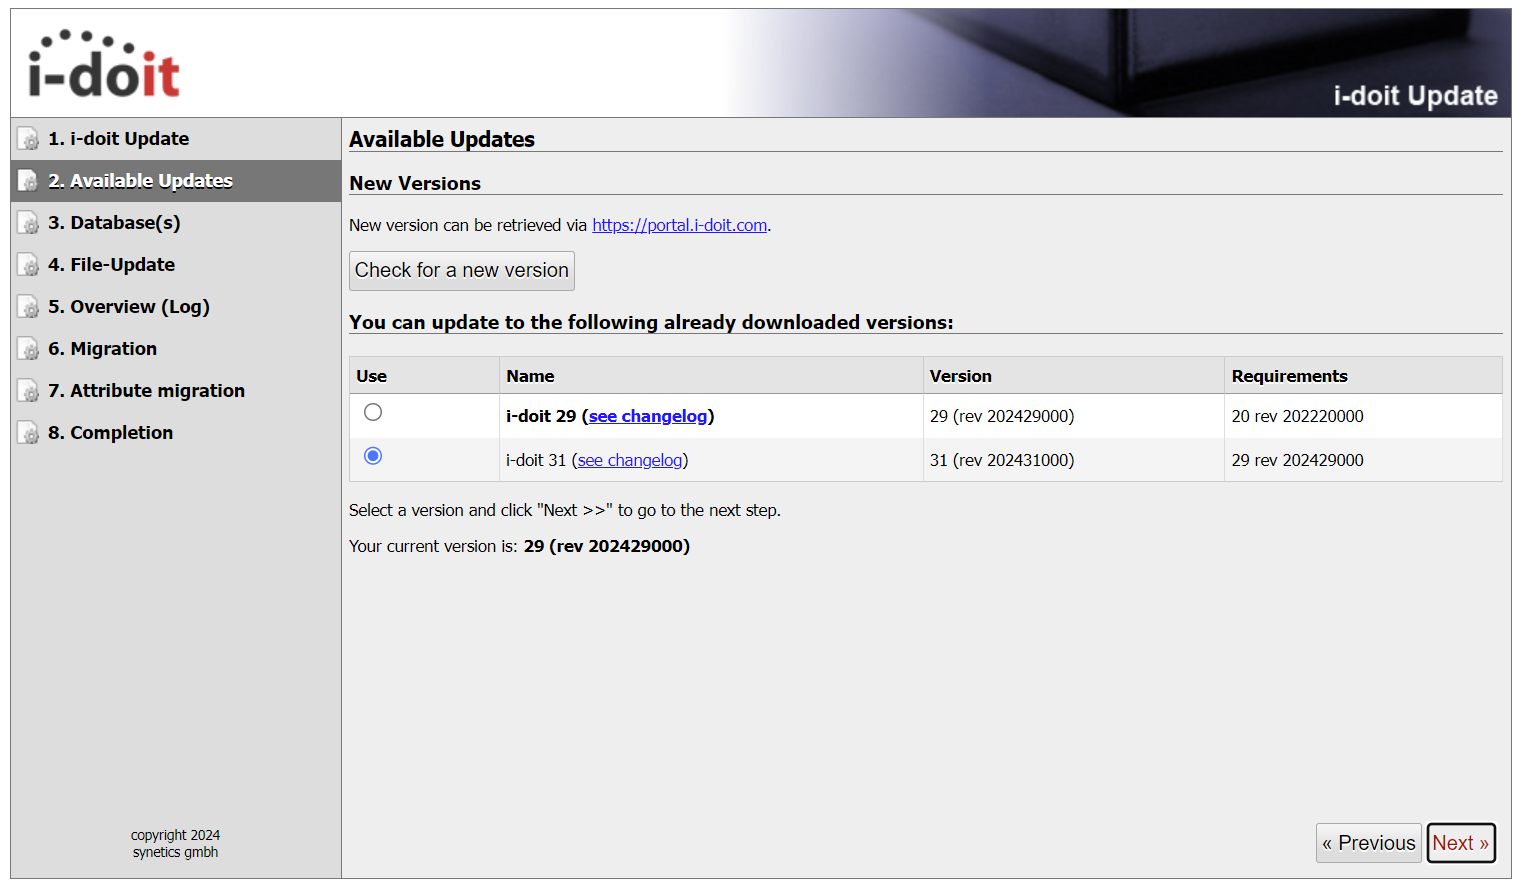
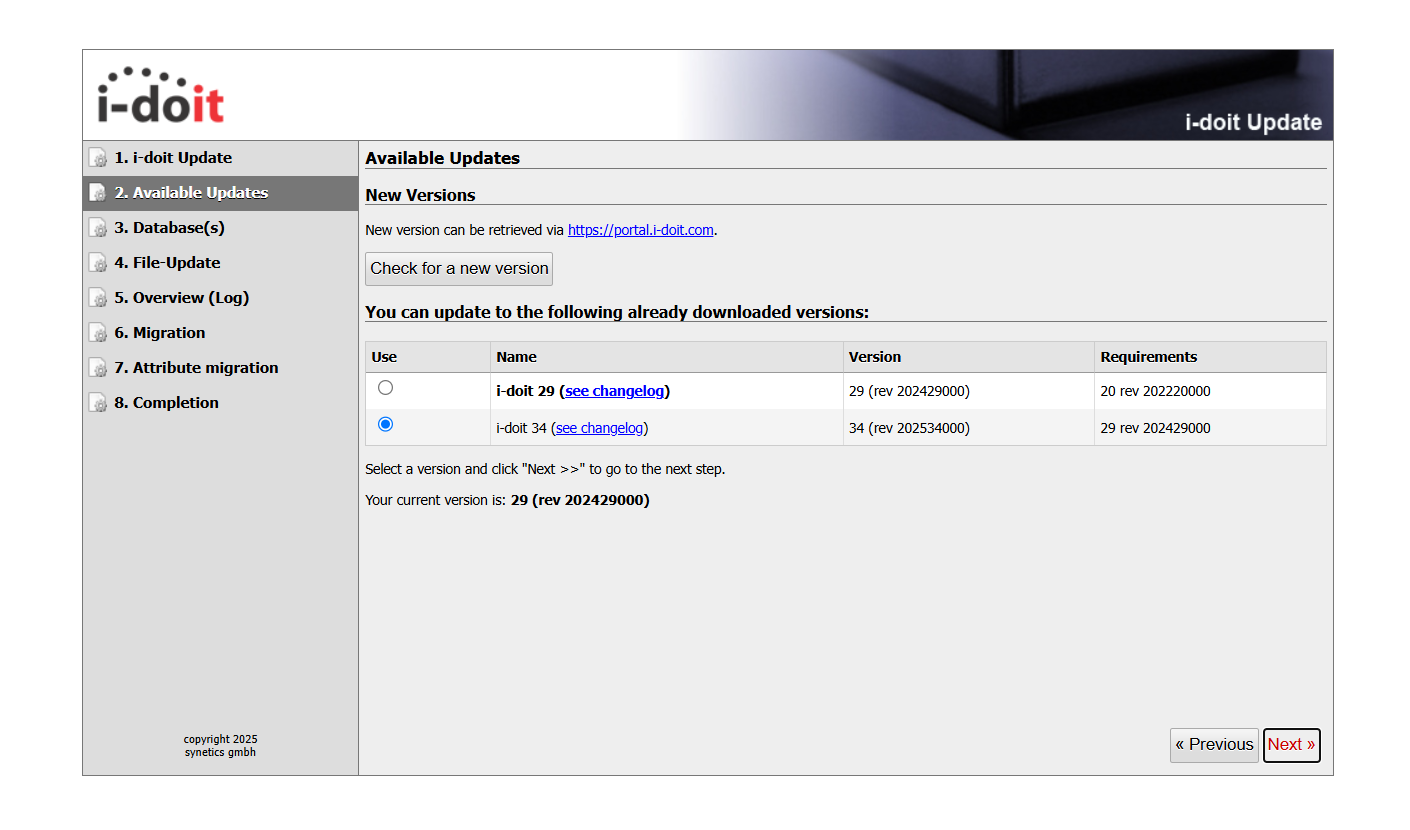
changed text to 34 and updated image

diff --git a/docs/de/upgrades-und-umzuege/update-anleitung-1.7.4-bis-31.md b/docs/de/upgrades-und-umzuege/update-anleitung-1.7.4-bis-31.md
@@ -1,5 +1,5 @@
 ---
-title: Update Anleitung von i-doit 1.7.4 zu 31
+title: Update Anleitung von i-doit 1.7.4 zu 34
 description: i-doit update guide
 icon: fontawesome/brands/linux
 status:
@@ -852,21 +852,21 @@ Starten Sie danach MariaDB neu
 sudo systemctl start mysql.service
 ```
 
-## Aktualisierung von 29 auf 31
+## Aktualisierung von 29 auf 34
 
 Zuerst müssen Sie das Update über die CLI vorbereiten, indem Sie den i-doit-Ordner unter `/var/www/html/` öffnen und das idoit-Update-Paket mit
 
 ```sh
-sudo -u www-data unzip idoit-31-update.zip
+sudo -u www-data unzip idoit-34-update.zip
 ```
 
 entpacken.
 
 Wenn Sie gefragt werden, überschreiben Sie alles, indem Sie **A** eingeben.
 
-Im Web-Interface-Updater überprüfen Sie, ob das Update auf Version 31 angezeigt und ausgewählt ist, und führen Sie dann das Update durch.
+Im Web-Interface-Updater überprüfen Sie, ob das Update auf Version 33 angezeigt und ausgewählt ist, und führen Sie dann das Update durch.
 
-[![Aktualisierung von 29 auf 31](../assets/images/de/upgrades-und-umzuege/update-anleitung-1.7.4-bis-31/14-u18-119.png)](../assets/images/de/upgrades-und-umzuege/update-anleitung-1.7.4-bis-31/14-u18-119.png)
+[![Aktualisierung von 29 auf 34](../assets/images/de/upgrades-und-umzuege/update-anleitung-1.7.4-bis-31/14-u18-119.png)](../assets/images/de/upgrades-und-umzuege/update-anleitung-1.7.4-bis-31/14-u18-119.png)
 
 !!! success "**Überprüfen Sie die Update-Logs**"
     Bitte nehmen Sie sich die Zeit, um die Logs durchzusehen und zu überprüfen, ob ein Fehler aufgetreten ist.

diff --git a/docs/en/upgrades-and-migrations/update-guide-from-1.7.4-to-31.md b/docs/en/upgrades-and-migrations/update-guide-from-1.7.4-to-31.md
@@ -1,5 +1,5 @@
 ---
-title: Update Guide from i-doit 1.7.4 to 31
+title: Update Guide from i-doit 1.7.4 to 34
 description: i-doit update guide
 icon: fontawesome/brands/linux
 status:
@@ -841,19 +841,19 @@ Restart MariaDB afterwards
 sudo systemctl start mysql.service
 ```
 
-## Updating 29 to 31
+## Updating 29 to 34
 
 First, you need to prepare the update via CLI by open the i-doit Folder at `/var/www/html/` and unzip the idoit update package with
 
 ```sh
-sudo -u www-data unzip idoit-31-update.zip
+sudo -u www-data unzip idoit-34-update.zip
 ```
 
 If you are asked, overwrite everything by typing **A**.
 
-In the Web Interface Updater check if the Update to Version 31 is displayed and selected, then do the update.
+In the Web Interface Updater check if the Update to Version 34 is displayed and selected, then do the update.
 
-[![Updating 29 to 31](../assets/images/en/upgrades-and-migrations/update-from-1.7.4-to-1.19/14-u18-119.png)](../assets/images/en/upgrades-and-migrations/update-from-1.7.4-to-1.19/14-u18-119.png)
+[![Updating 29 to 34](../assets/images/en/upgrades-and-migrations/update-from-1.7.4-to-1.19/14-u18-119.png)](../assets/images/en/upgrades-and-migrations/update-from-1.7.4-to-1.19/14-u18-119.png)
 
 !!! success "**Check the update Logs**"
     Please take the time to Scroll down the logs and check if a error occurred
